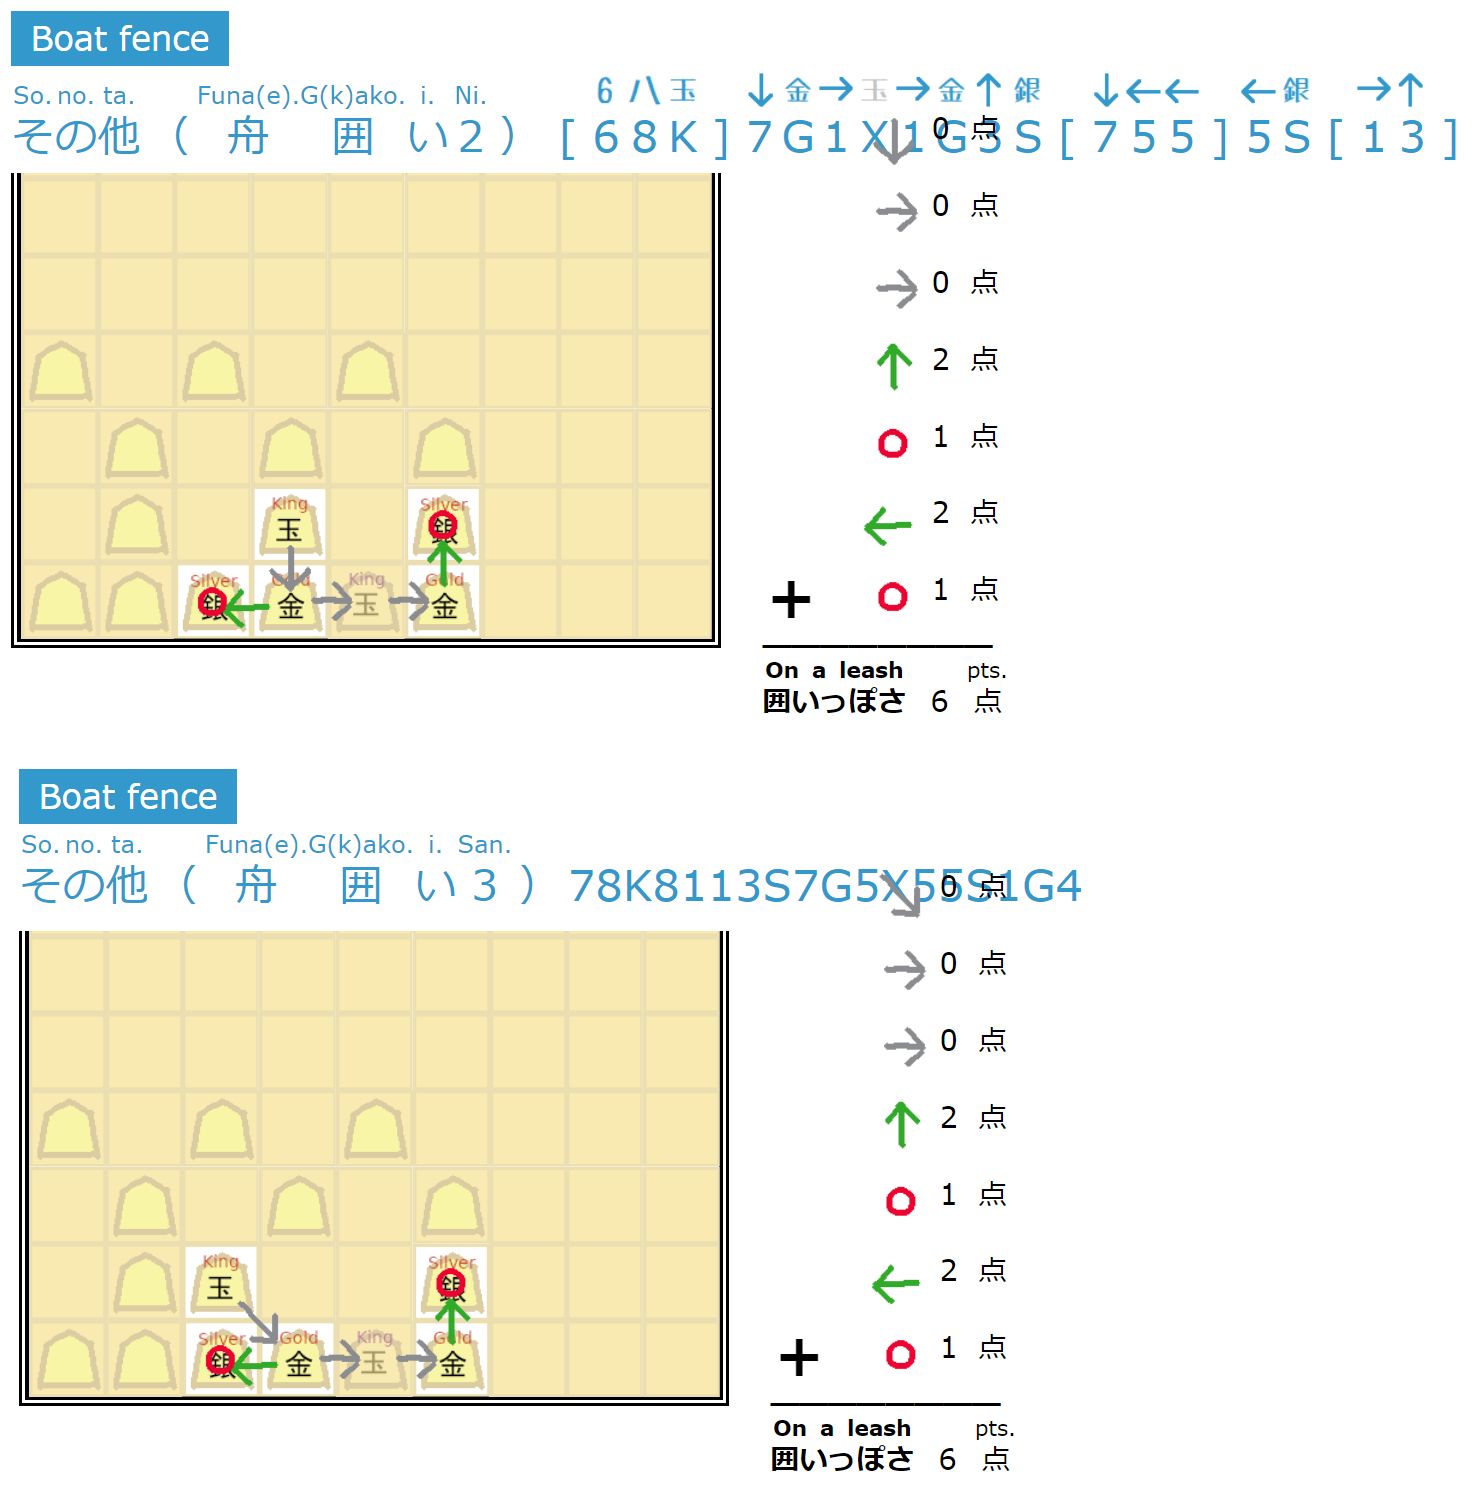
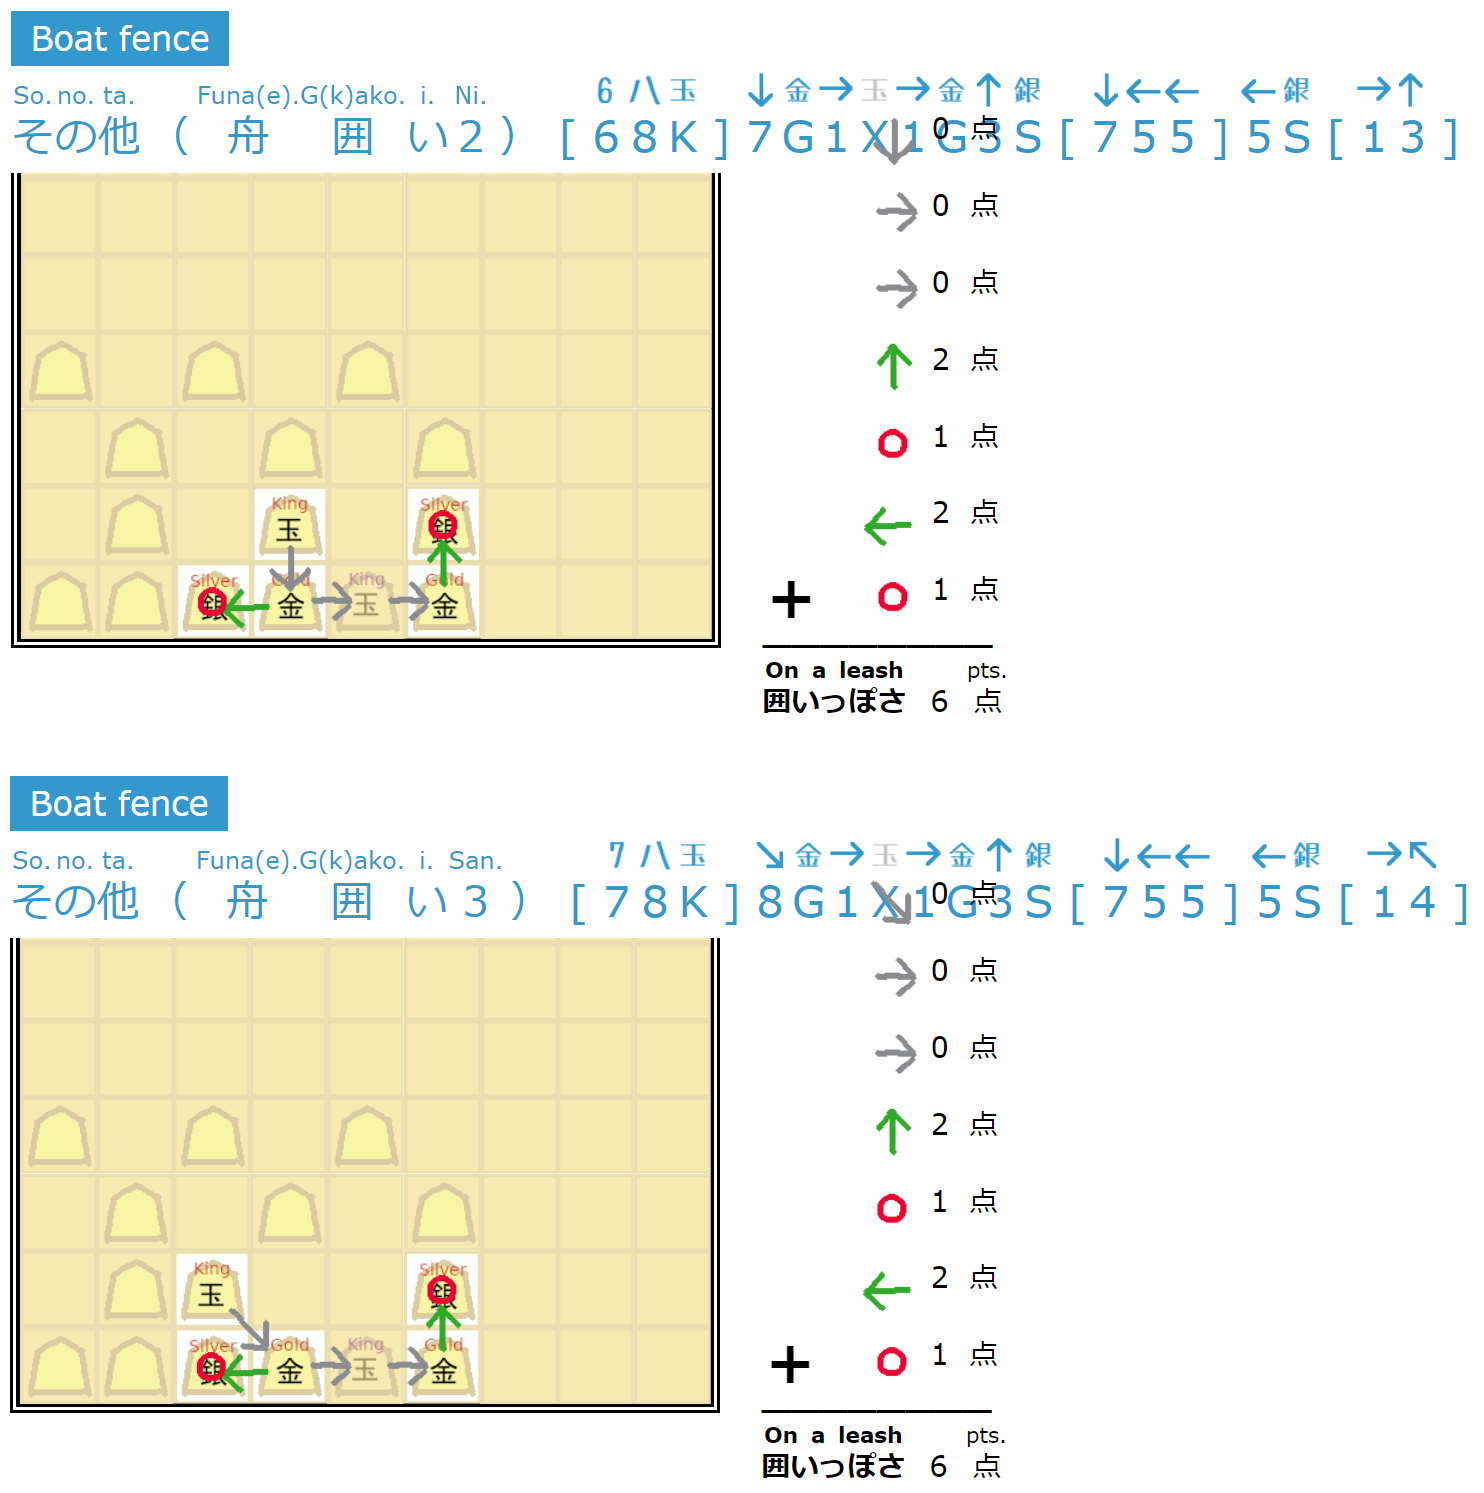
Readme

diff --git a/data/funa-gakoi-3.js b/data/funa-gakoi-3.js
@@ -1,7 +1,7 @@
 function get_data() {
     return {
         "meta": {
-            id: "78K85S1G4",
+            id: "[78K]8G1X1G3S[755]5S[14]",
             name: "funa-gakoi-3"
         },
         "english": "Boat fence",
